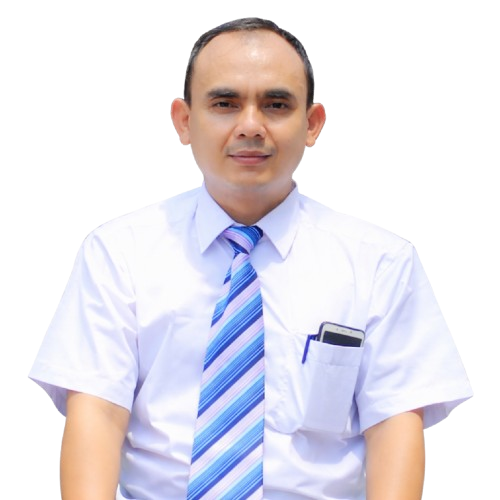
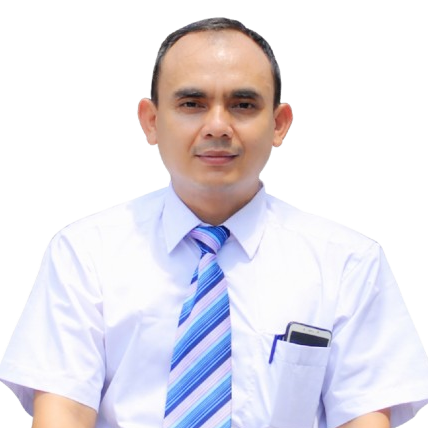
profil

diff --git a/profil.html b/profil.html
@@ -161,44 +161,54 @@
             <div class="profil-content" id="tab-dewan">
                 <div class="struktur-grid" style="grid-template-columns: repeat(auto-fit, minmax(180px, 1fr));">
                     <div class="struktur-card animate-on-scroll stagger-1">
-                        <div class="struktur-avatar"><i class="fas fa-chalkboard-teacher"></i></div>
-                        <h4>Agung Oktriadi, S.S</h4>
-                        <span>Bahasa Arab</span>
+                        <img src="assets/images/ASRONI.jpeg" class="guru-img" alt="" srcset="">
+                        <h4>Asroni, S.Pd.I</h4>
+                        <span>Penjaskes</span>
                     </div>
                     <div class="struktur-card animate-on-scroll stagger-2">
-                        <div class="struktur-avatar"><i class="fas fa-chalkboard-teacher"></i></div>
-                        <h4>Dedi Kurniawan, S.Pd</h4>
-                        <span>Matematika</span>
+                        <img src="assets/images/DEBI_MAOLANA_AKBAR.jpeg" class="guru-img" alt="" srcset="">
+                        <h4>Debi Maolana AKBAR, S.Pd</h4>
+                        <span>Prakarya</span>
                     </div>
                     <div class="struktur-card animate-on-scroll stagger-3">
-                        <div class="struktur-avatar"><i class="fas fa-chalkboard-teacher"></i></div>
-                        <h4>Yuli Astuti, S.Pd</h4>
+                        <img src="assets/images/ASRONI.jpeg" class="guru-img" alt="" srcset="">
+                        <h4>Anggi Krisma Diana, S.Pd</h4>
                         <span>Bahasa Indonesia</span>
                     </div>
                     <div class="struktur-card animate-on-scroll stagger-4">
-                        <div class="struktur-avatar"><i class="fas fa-chalkboard-teacher"></i></div>
-                        <h4>Rina Marlina, S.Pd</h4>
-                        <span>IPA</span>
+                        <img src="assets/images/ROSMALA.jpeg" class="guru-img" alt="" srcset="">
+                        <h4>Rosmala, S.Pd</h4>
+                        <span>Matematika</span>
+                    </div>
+                    <div class="struktur-card animate-on-scroll stagger-4">
+                        <img src="assets/images/sitisolehah" class="guru-img" alt="" srcset="">
+                        <h4>Siti Solihah, S.Pd.I</h4>
+                        <span>Matematika</span>
                     </div>
                     <div class="struktur-card animate-on-scroll stagger-5">
-                        <div class="struktur-avatar"><i class="fas fa-chalkboard-teacher"></i></div>
-                        <h4>Andi Firmansyah, S.Pd</h4>
-                        <span>IPS</span>
+                        <img src="assets/images/SADIAH.jpeg" class="guru-img" alt="" srcset="">
+                        <h4>Sadiah, S.Ag</h4>
+                        <span>Qur'an Hadist</span>
                     </div>
                     <div class="struktur-card animate-on-scroll stagger-6">
-                        <div class="struktur-avatar"><i class="fas fa-chalkboard-teacher"></i></div>
-                        <h4>Ika Sari, S.Pd</h4>
-                        <span>Bahasa Inggris</span>
-                    </div>
-                    <div class="struktur-card animate-on-scroll stagger-5">
-                        <div class="struktur-avatar"><i class="fas fa-chalkboard-teacher"></i></div>
-                        <h4>Fathur Rohman, S.Pdi</h4>
+                        <img src="assets/images/SITI_MASIROH.jpeg" class="guru-img" alt="" srcset="">
+                        <h4>Siti Masiroh, S.Pd.I</h4>
                         <span>Aqidah Akhlak</span>
                     </div>
+                    <div class="struktur-card animate-on-scroll stagger-5">
+                        <img src="assets/images/RUNIKA.jpeg" class="guru-img" alt="" srcset="">
+                        <h4>Runika, S.Pd</h4>
+                        <span>Bahasa Inggris</span>
+                    </div>
                     <div class="struktur-card animate-on-scroll stagger-6">
-                        <div class="struktur-avatar"><i class="fas fa-chalkboard-teacher"></i></div>
-                        <h4>Kholid Hasan, S.PdI</h4>
-                        <span>Fiqih</span>
+                        <img src="assets/images/HENI.jpeg" class="guru-img" alt="" srcset="">
+                        <h4>Suhaeni, S.Pd</h4>
+                        <span>IPA</span>
+                    </div>
+                    <div class="struktur-card animate-on-scroll stagger-6">
+                        <img src="assets/images/VERA_TARMILAH.jpeg" class="guru-img" alt="" srcset="">
+                        <h4>Vera Tarmilah, S.Hum</h4>
+                        <span>Bahasa Arab</span>
                     </div>
                 </div>
             </div>

diff --git a/assets/css/style.css b/assets/css/style.css
@@ -530,7 +530,7 @@
         .sambutan-photo-img img {
             width: 100%;
             height: 100%;
-            object-fit: cover;
+            object-fit:calc();
         }
 
         .sambutan-photo::after {
@@ -973,6 +973,13 @@
             font-size: 12px;
             color: var(--primary);
             font-weight: 600;
+        }
+
+        /* ===== PROFIL SECTION =====  */
+        .guru-img {
+            width: 100%;
+            height: 80%;
+            border-radius: 50%;
         }
 
         /* ===== GALERI ===== */